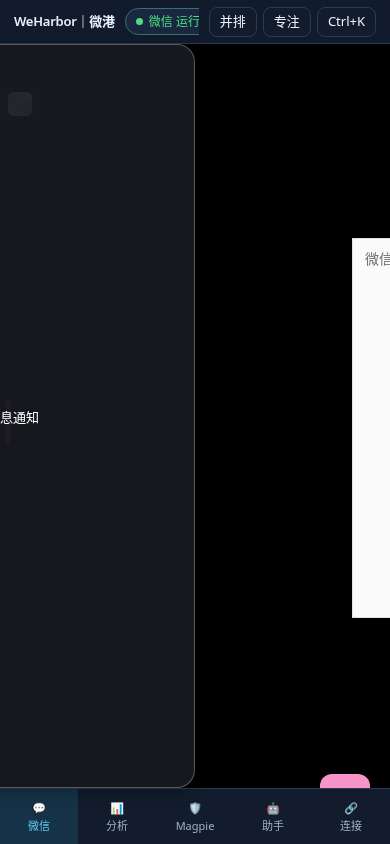
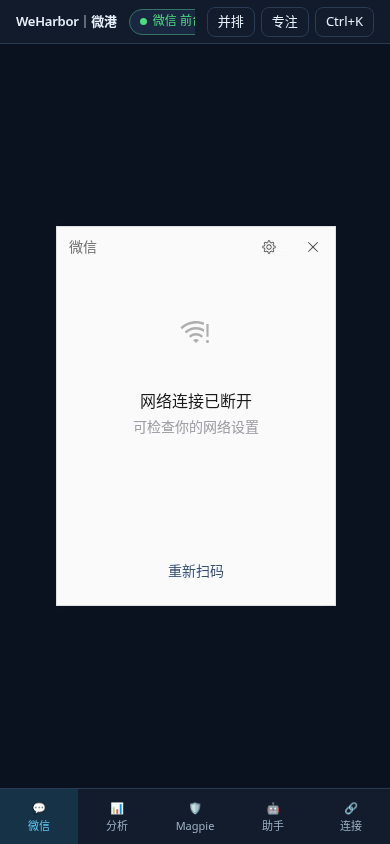
fix(ui): hide Selkies chrome, track stream pane size, seed dsh workspace
Hide the full-pane notification CTA that covered the rail, force Selkies
resolution to follow the shell pane on layout changes, provision
/config/WeHarbor-workspace (Documents/deepseek-harness/default-workspace)
with documentsDirectory for dsh, and refresh README screenshots.

diff --git a/root/usr/share/weharbor/pwa/weharbor-apps.js b/root/usr/share/weharbor/pwa/weharbor-apps.js
@@ -115,18 +115,37 @@ html[data-weharbor-theme=dark]{
 html.weharbor-unified, html.weharbor-unified body{height:100%;margin:0;overflow:hidden;background:var(--wh-bg);font-family:var(--wh-font);color:var(--wh-ink)}
 html.weharbor-unified #app{
   position:fixed!important;left:var(--wh-rail)!important;top:var(--wh-top)!important;right:var(--wh-side)!important;bottom:var(--wh-bottom)!important;
-  width:auto!important;height:auto!important;overflow:hidden;z-index:1;background:#000;
+  width:auto!important;height:auto!important;overflow:hidden;z-index:1;background:#0b1220;
+  display:flex!important;align-items:stretch;justify-content:stretch;border-radius:0;
 }
-html.weharbor-unified #root,html.weharbor-unified #dashboard-root,html.weharbor-unified #touch-gamepad-host,html.weharbor-unified #browser-notification-permission{
+html.weharbor-unified #app .video-container,
+html.weharbor-unified #app #videoStream,
+html.weharbor-unified #app #videoCanvas,
+html.weharbor-unified #app #videoWorkerCanvas,
+html.weharbor-unified #app #overlayInput{
+  position:absolute!important;inset:0!important;width:100%!important;height:100%!important;max-width:none!important;max-height:none!important;
+  object-fit:fill!important;border-radius:0!important;margin:0!important;
+}
+/* Hide leftover Selkies chrome: the notification CTA was a full-pane translucent
+   rounded button that covered the rail; dashboard overlays are replaced by our shell. */
+html.weharbor-unified #browser-notification-permission,
+html.weharbor-unified #playButton,
+html.weharbor-unified .notification-container,
+html.weharbor-unified #status-display{display:none!important}
+html.weharbor-unified #root,
+html.weharbor-unified #dashboard-root,
+html.weharbor-unified #touch-gamepad-host{
   position:fixed!important;left:var(--wh-rail)!important;top:var(--wh-top)!important;right:var(--wh-side)!important;bottom:var(--wh-bottom)!important;
-  width:auto!important;pointer-events:none;z-index:2;
+  width:auto!important;height:auto!important;pointer-events:none!important;z-index:2;opacity:0!important;
 }
-html.weharbor-unified #dashboard-root > *, html.weharbor-unified #browser-notification-permission{pointer-events:auto}
-html.weharbor-unified.weharbor-focus #app,html.weharbor-unified.weharbor-focus #root,html.weharbor-unified.weharbor-focus #dashboard-root,html.weharbor-unified.weharbor-focus #touch-gamepad-host{visibility:hidden}
+html.weharbor-unified.weharbor-focus #app,
+html.weharbor-unified.weharbor-focus #root,
+html.weharbor-unified.weharbor-focus #dashboard-root,
+html.weharbor-unified.weharbor-focus #touch-gamepad-host{visibility:hidden}
 #weharbor-shell{position:fixed;inset:0;z-index:2147482900;pointer-events:none;font:13px/1.45 var(--wh-font);color:var(--wh-ink)}
 #weharbor-shell *{box-sizing:border-box}
 #weharbor-shell .wh-chrome{pointer-events:auto}
-#weharbor-rail{position:absolute;left:0;top:0;bottom:var(--wh-bottom);width:var(--wh-rail);display:flex;flex-direction:column;align-items:center;gap:6px;padding:10px 0;background:var(--wh-surface);border-right:1px solid var(--wh-line);z-index:3}
+#weharbor-rail{position:absolute;left:0;top:0;bottom:var(--wh-bottom);width:var(--wh-rail);display:flex;flex-direction:column;align-items:center;gap:4px;padding:8px 0 10px;background:var(--wh-surface);border-right:1px solid var(--wh-line);z-index:5}
 #weharbor-rail .wh-brand{width:36px;height:36px;border-radius:10px;background:linear-gradient(145deg,#0b6e99,#14b8a6);color:#fff;display:grid;place-items:center;font-weight:700;letter-spacing:-.04em;margin-bottom:8px}
 #weharbor-rail .wh-nav{display:flex;flex-direction:column;gap:4px;width:100%;align-items:center;flex:1}
 #weharbor-rail button.wh-nav-btn,#weharbor-top button,#weharbor-side button,#weharbor-apps button,#weharbor-palette button,#weharbor-bottom button{
@@ -136,12 +155,12 @@ html.weharbor-unified.weharbor-focus #app,html.weharbor-unified.weharbor-focus #
 #weharbor-rail button.wh-nav-btn:hover{background:var(--wh-surface-2);color:var(--wh-ink)}
 #weharbor-rail button.wh-nav-btn:focus-visible,#weharbor-top button:focus-visible,#weharbor-side button:focus-visible,#weharbor-apps button:focus-visible,#weharbor-palette button:focus-visible{outline:2px solid var(--wh-accent);outline-offset:2px}
 #weharbor-rail .wh-nav-btn .wh-ico{font-size:18px;line-height:1}
-#weharbor-rail .wh-nav-btn .wh-kbd{position:absolute;bottom:3px;right:4px;font:9px/1 var(--wh-mono);opacity:.45;color:var(--wh-muted)}
+#weharbor-rail .wh-nav-btn .wh-kbd{position:absolute;bottom:2px;right:3px;font:8px/1 var(--wh-mono);opacity:.35;color:var(--wh-muted);pointer-events:none}
 #weharbor-rail .wh-rail-foot{display:flex;flex-direction:column;gap:4px;margin-top:auto}
-#weharbor-top{position:absolute;left:var(--wh-rail);right:0;top:0;height:var(--wh-top);display:flex;align-items:center;gap:10px;padding:0 14px;background:color-mix(in srgb, var(--wh-surface) 92%, transparent);backdrop-filter:blur(10px);border-bottom:1px solid var(--wh-line);z-index:3}
+#weharbor-top{position:absolute;left:var(--wh-rail);right:0;top:0;height:var(--wh-top);display:flex;align-items:center;gap:12px;padding:0 16px;background:color-mix(in srgb, var(--wh-surface) 94%, transparent);backdrop-filter:blur(12px);border-bottom:1px solid var(--wh-line);z-index:3}
 #weharbor-top .wh-title{font-weight:650;letter-spacing:-.02em;white-space:nowrap}
 #weharbor-top .wh-chips{display:flex;gap:6px;flex:1;overflow:auto;scrollbar-width:none}
-#weharbor-top .wh-chip{display:inline-flex;align-items:center;gap:6px;padding:4px 10px;border-radius:999px;background:var(--wh-surface-2);border:1px solid var(--wh-line);color:var(--wh-muted);white-space:nowrap;font-size:12px}
+#weharbor-top .wh-chip{display:inline-flex;align-items:center;gap:6px;padding:3px 10px;border-radius:999px;background:var(--wh-surface-2);border:1px solid var(--wh-line);color:var(--wh-muted);white-space:nowrap;font-size:12px;line-height:1.2;height:26px}
 #weharbor-top .wh-chip[data-state=ok]{color:var(--wh-ok);border-color:color-mix(in srgb, var(--wh-ok) 35%, var(--wh-line))}
 #weharbor-top .wh-chip[data-state=warn]{color:var(--wh-warn)}
 #weharbor-top .wh-chip[data-state=off]{opacity:.65}
@@ -322,7 +341,18 @@ html.weharbor-unified.weharbor-focus #app,html.weharbor-unified.weharbor-focus #
       bottom.hidden = !mobile;
       resizer.hidden = !(sideOpen && !focus);
       if (!resizer.hidden) resizer.style.right = sideWidth + 'px';
-      requestAnimationFrame(() => window.dispatchEvent(new Event('resize')));
+    };
+    // Selkies reads the video parent's getBoundingClientRect() on window.resize.
+    // Fire a few delayed resize events after *our* layout changes (not from the
+    // listener below) so the remote desktop tracks the pane without looping.
+    let bumpTimer = 0;
+    const bumpResolution = () => {
+      const fire = () => window.dispatchEvent(new Event('resize'));
+      clearTimeout(bumpTimer);
+      requestAnimationFrame(fire);
+      bumpTimer = setTimeout(fire, 120);
+      setTimeout(fire, 400);
+      setTimeout(fire, 900);
     };
 
     const ensureFrame = (view) => {
@@ -377,6 +407,7 @@ html.weharbor-unified.weharbor-focus #app,html.weharbor-unified.weharbor-focus #
       write('weharbor-layout', layout);
       write('weharbor-workspace-view', currentView);
       syncLayoutVars();
+      bumpResolution();
       renderNav();
       // Hand focus back to the stream when showing desktop/split.
       if (layout.mode !== 'focus' && currentView === 'desktop') {
@@ -607,7 +638,7 @@ html.weharbor-unified.weharbor-focus #app,html.weharbor-unified.weharbor-focus #
       if (!dragSide || dragSide.id !== event.pointerId) return;
       dragSide = null; resizer.classList.remove('dragging');
       write('weharbor-side-width', sideWidth);
-      window.dispatchEvent(new Event('resize'));
+      bumpResolution();
     };
     resizer.addEventListener('pointerup', endDrag);
     resizer.addEventListener('pointercancel', endDrag);
@@ -628,6 +659,7 @@ html.weharbor-unified.weharbor-focus #app,html.weharbor-unified.weharbor-focus #
     // Restore previous layout; default is WeChat desktop with shell chrome.
     if (layout.mode !== 'desktop') ensureFrame(layout.side);
     syncLayoutVars();
+    bumpResolution();
     renderNav();
     renderShortcuts();
     refresh().catch(() => {});
